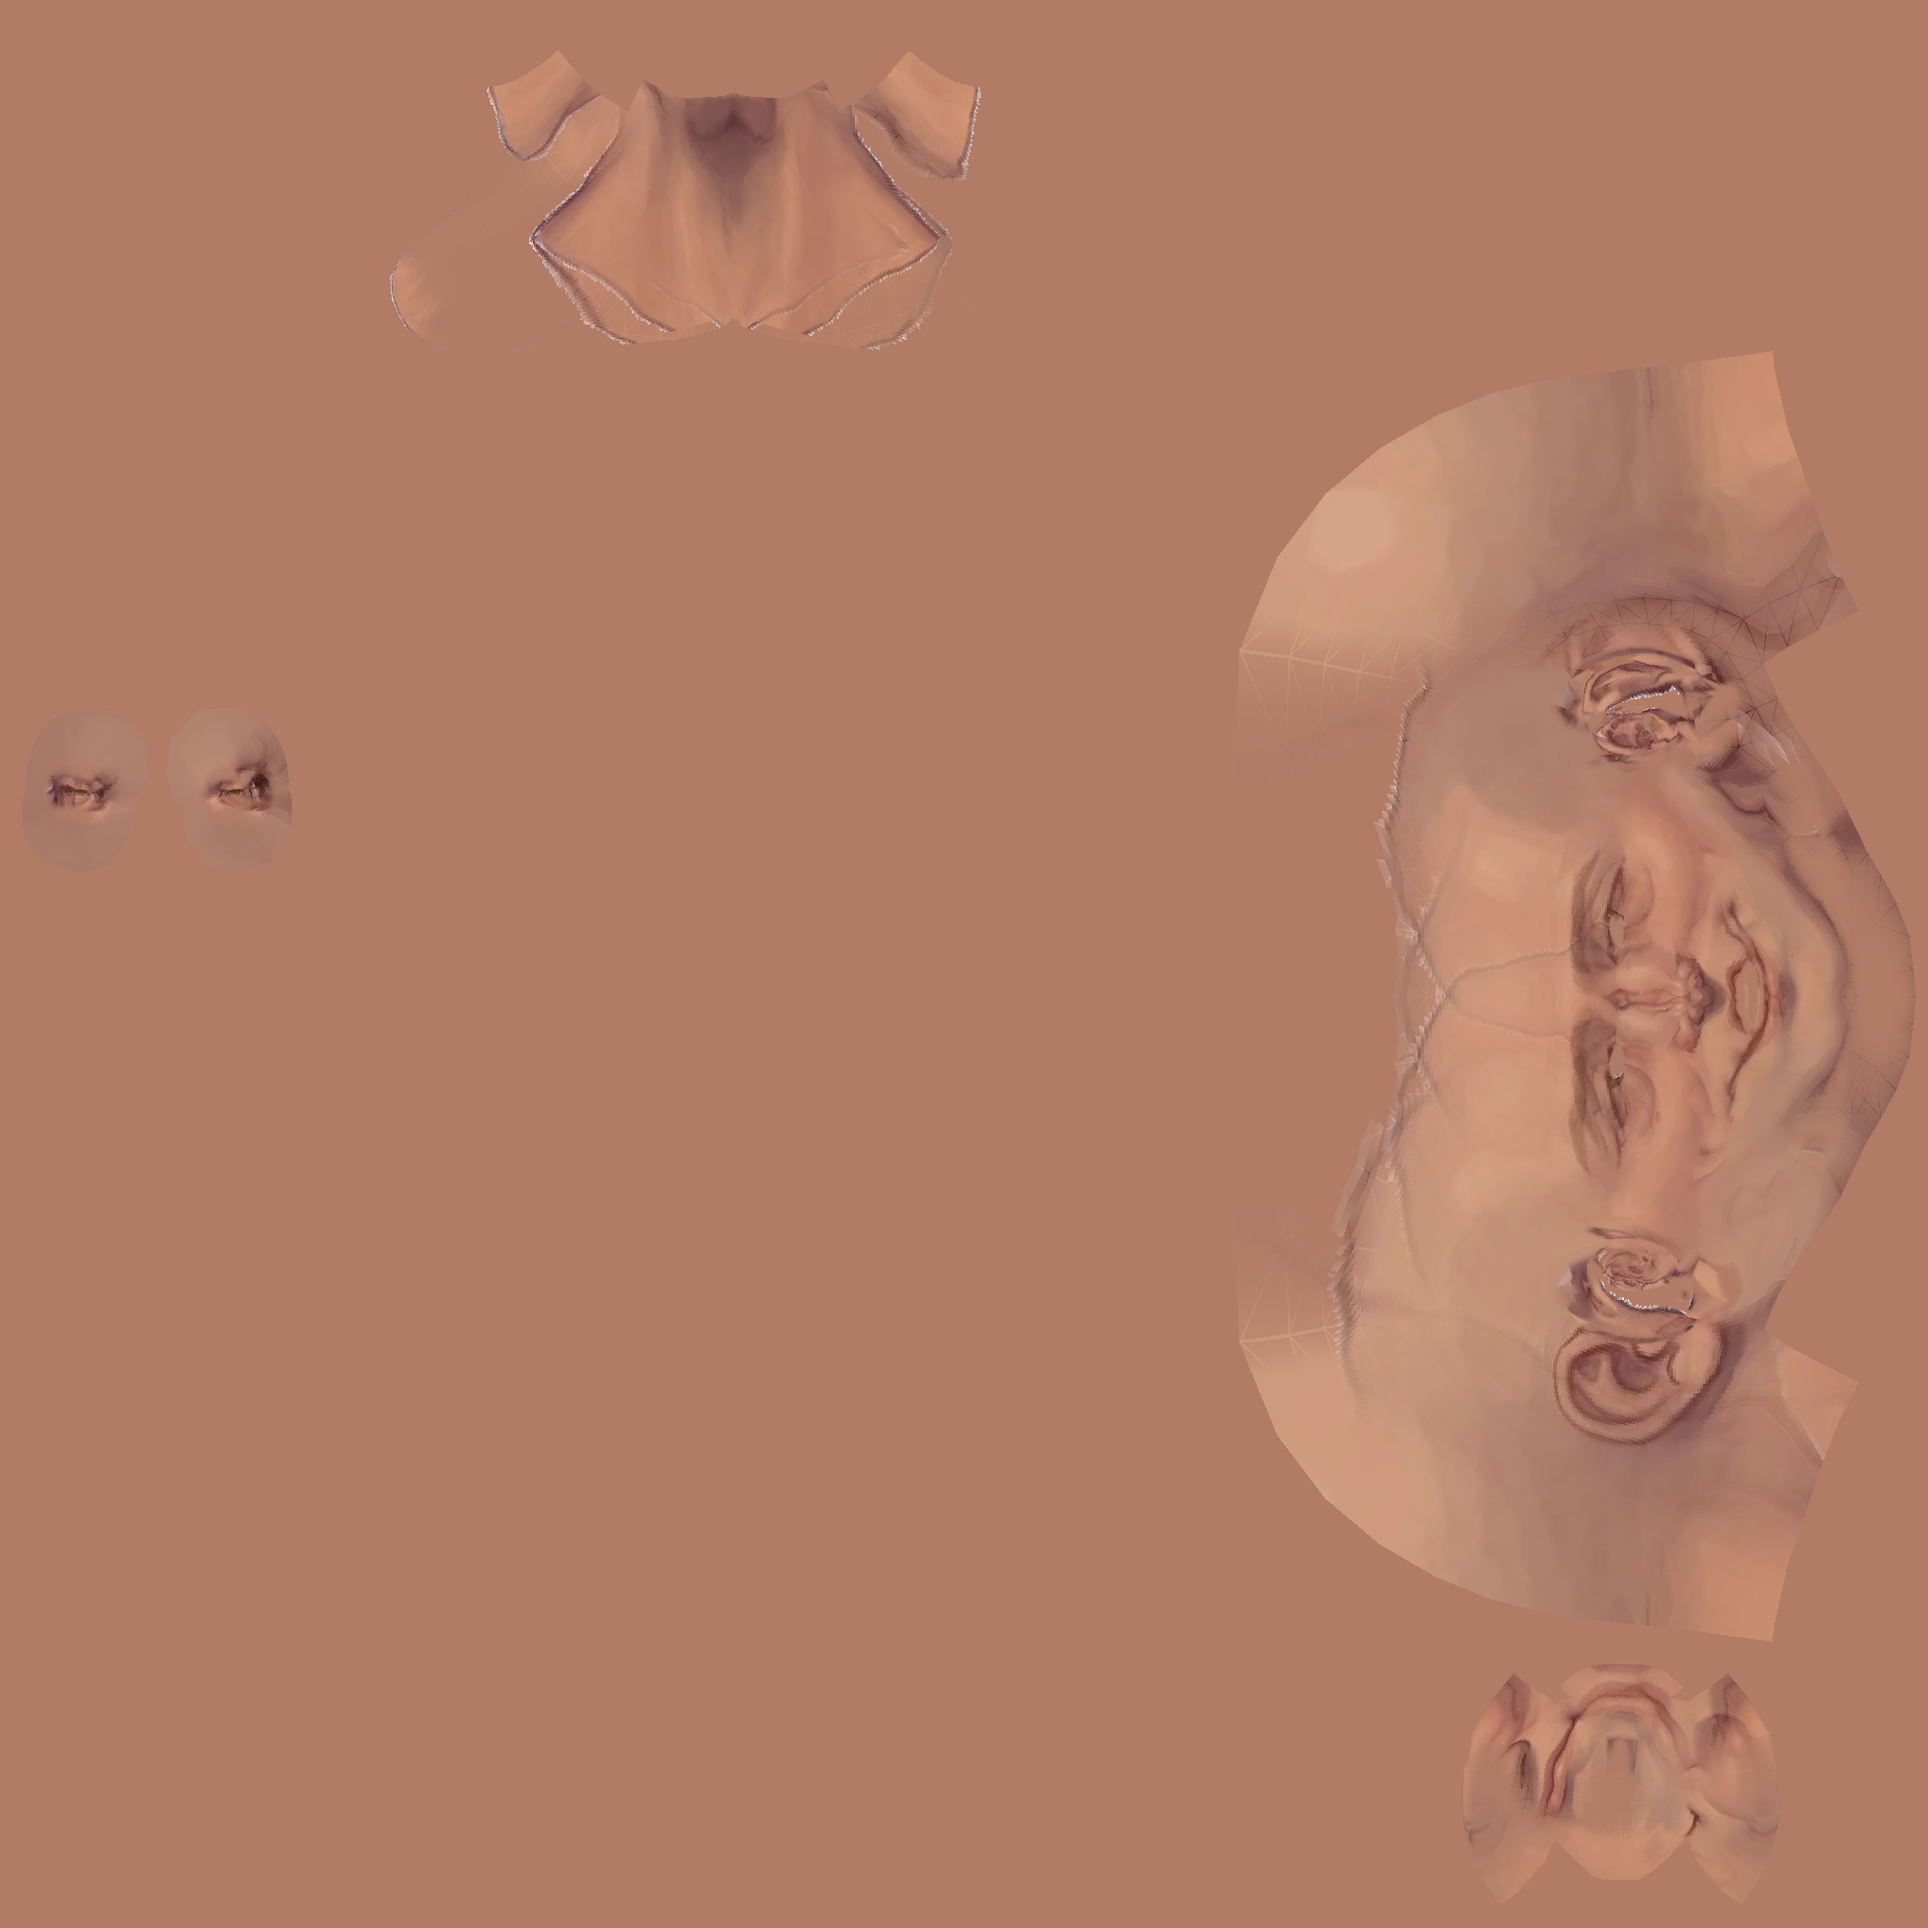
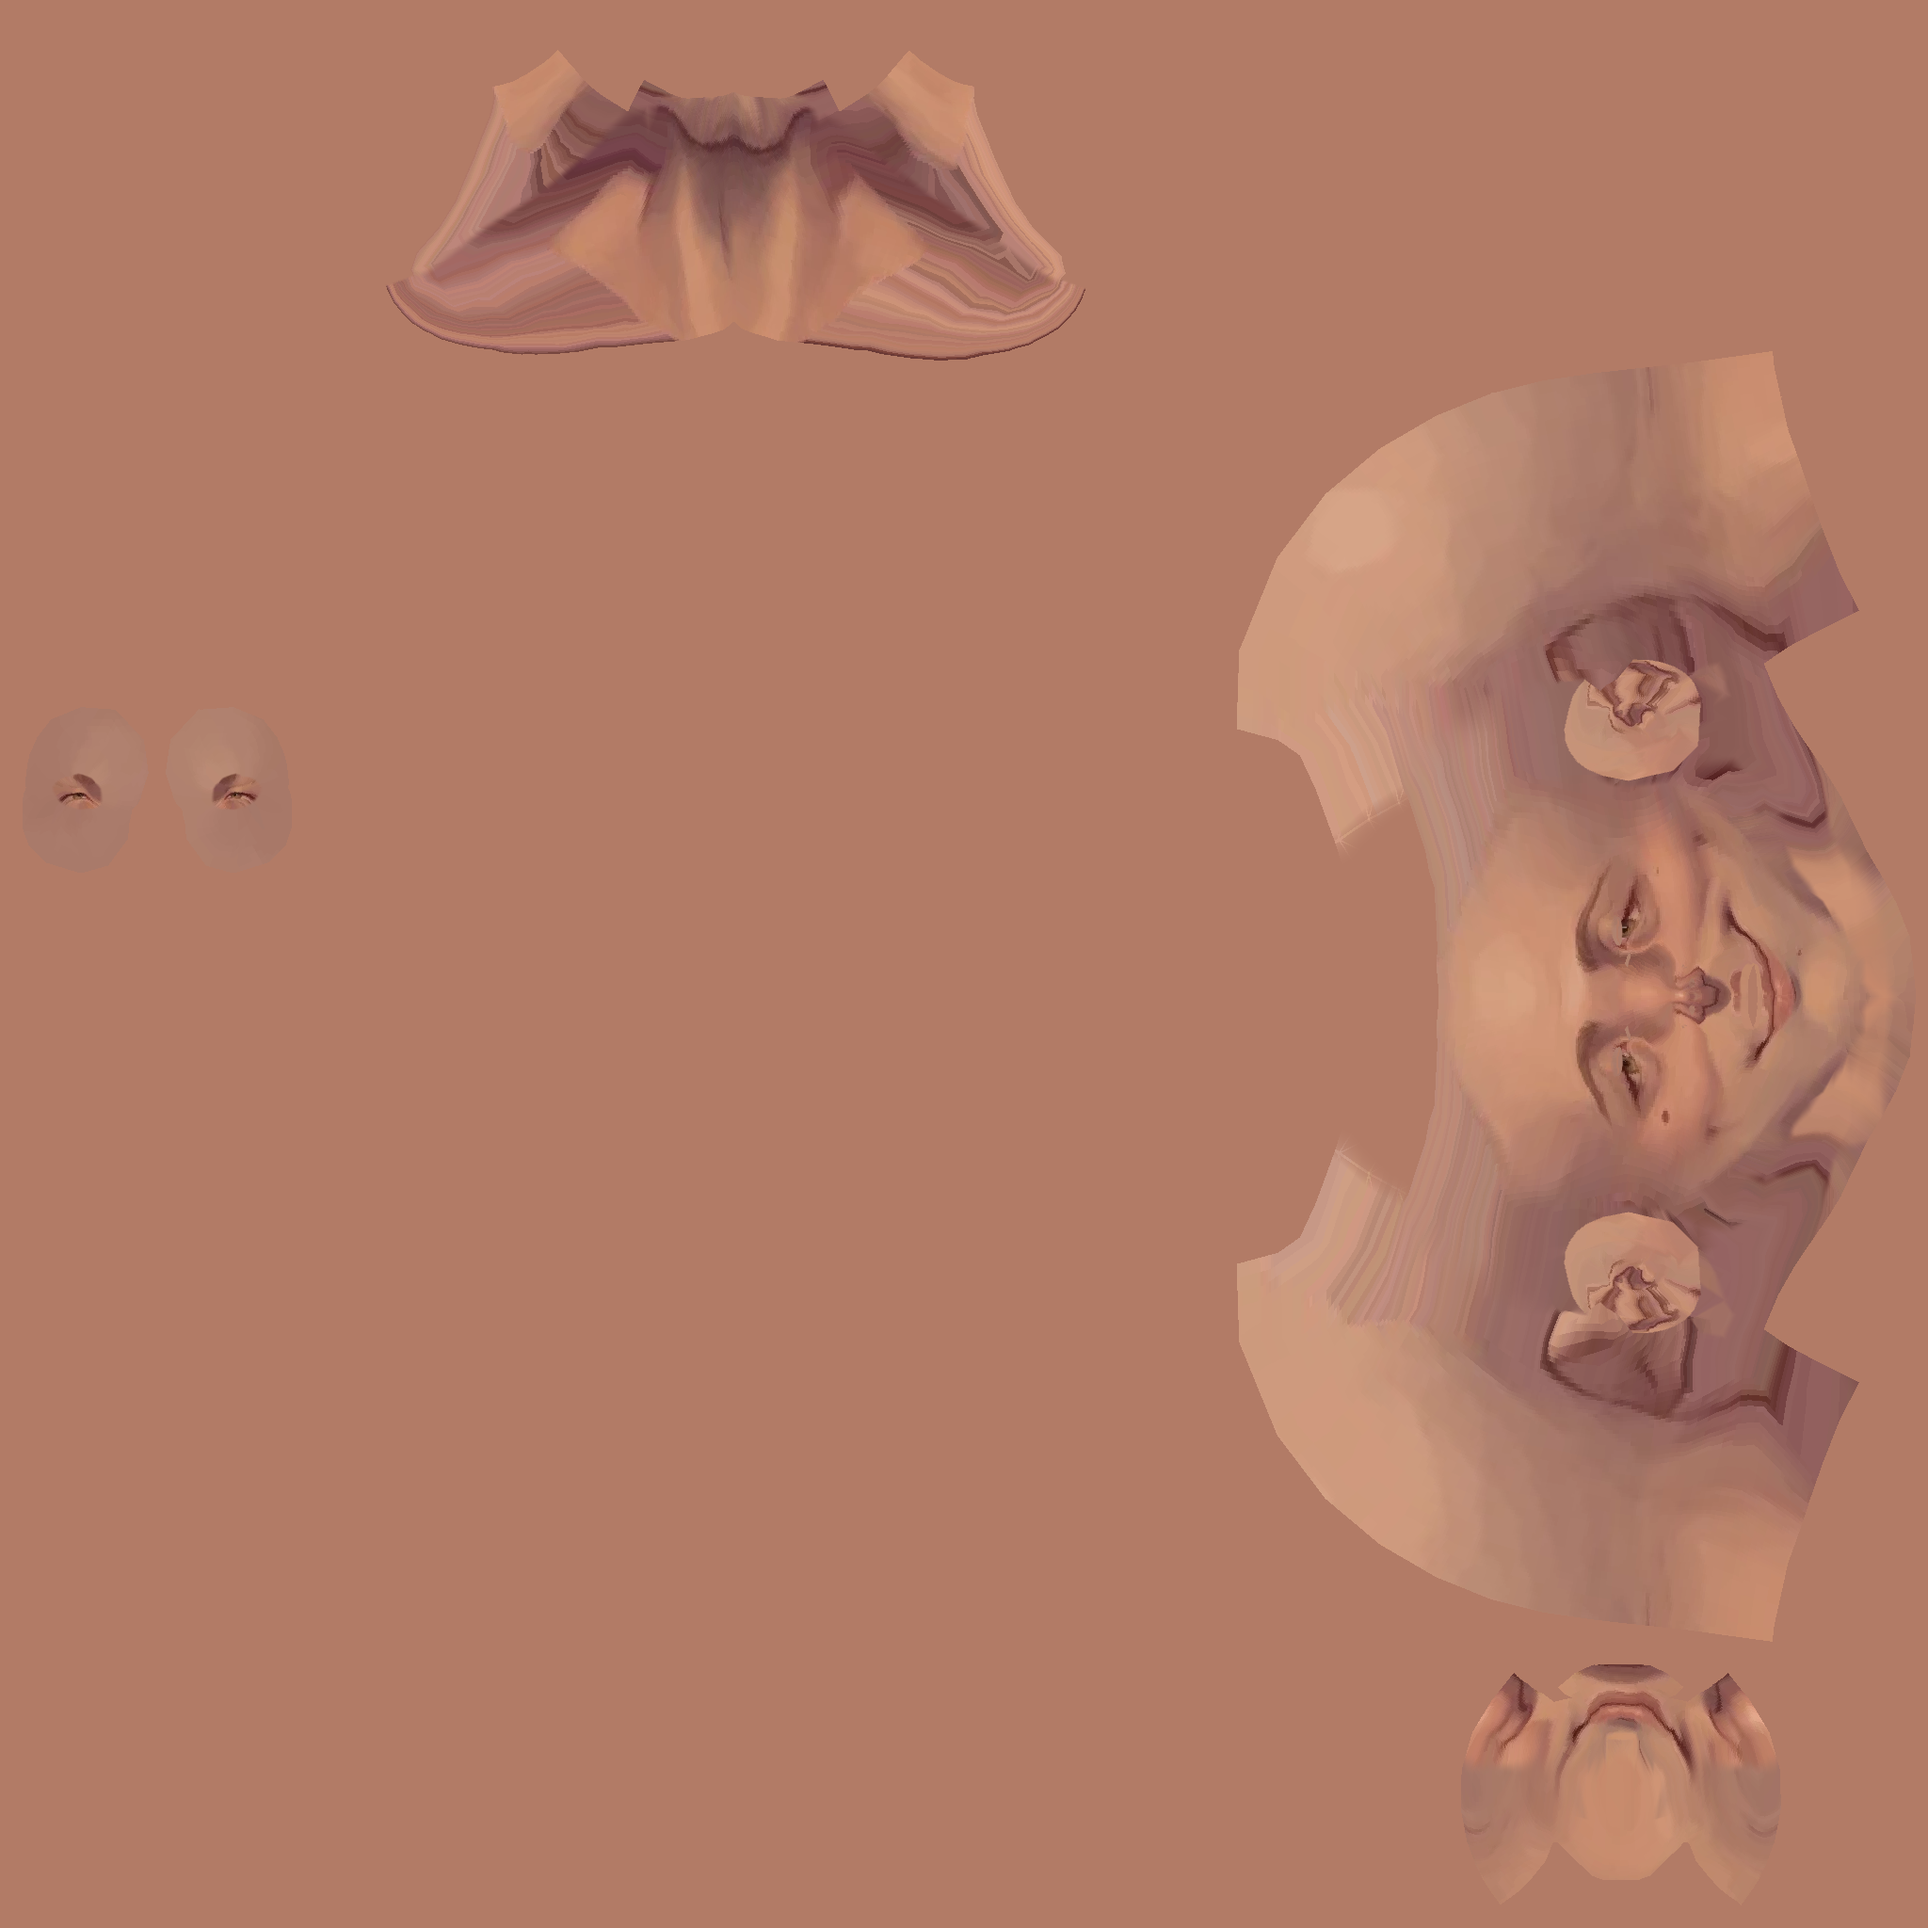
Gulp: figed: the head painted from the front and back views only, ears from the side view
Claude-Session: https://claude.ai/code/session_018hhQTWAB4pnnkWVR2X6n6A

diff --git a/tools/figed/paint_project.py b/tools/figed/paint_project.py
@@ -64,14 +64,26 @@ for v in sheet["views"]:
     right /= np.linalg.norm(right)
     up = np.cross(right, d)
     box = [int(round(c * k)) for c in v["box"]]
-    mask = figed_fit.cut_out(art, box, 0.07)
+    mask = figed_fit.shrink(figed_fit.cut_out(art, box, 0.07), 4)     # in from the drawn outline: no dark lines
     px = (v["chin"] - v["crown"]) * k / high                 # sheet pixels a metre
     if "nose" in v:
         anchor, at = nose, (v["nose"][0] * k, v["nose"][1] * k)
     else:
         anchor, at = crown, (v["centre"] * k, v["crown"] * k)
-    views.append((d, right, up, box, mask, px, anchor, at))
-skin = np.median(art[views[0][4].nonzero()[0] + views[0][3][1], views[0][4].nonzero()[1] + views[0][3][0]], axis=0)
+    # each row's figure: where it starts and ends, so skin just outside a view's outline (the side of the head, seen
+    # edge on from front and back) takes the colour of the outline's edge and is not left bare
+    rows = mask.any(axis=1)
+    lo = np.where(rows, mask.argmax(axis=1), 0)
+    hi = np.where(rows, mask.shape[1] - 1 - mask[:, ::-1].argmax(axis=1), -1)
+    views.append((d, right, up, box, (mask, rows, lo, hi), px, anchor, at, v["view"]))
+skin = np.median(art[views[0][4][0].nonzero()[0] + views[0][3][1], views[0][4][0].nonzero()[1] + views[0][3][0]], axis=0)
+# The user, 2026-11-20: "just project the fotnad back views, and the ears shouold come from the side view". The
+# three-quarter views are not used: where two views disagree the paint doubled (mouth, ears).
+by_name = {v[8]: v for v in views}
+FRONT, BACK, SIDE = by_name["face"], by_name["face_back"], by_name["face_side_r"]
+ear_of = np.zeros(len(P), dtype=int)                          # 1 = an ear on his left (+x), 2 = on his right
+for side, (ear, _root, flap) in fig._ear_masks().items():
+    ear_of[ear] = 1 if side == "l" else 2
 print("skin colour", skin.round(3), "views", len(views))
 
 # texels of the head's faces: where each is on the model, and which way it faces
@@ -111,15 +123,23 @@ for group, vi, ti in base.faces:
         nrm = w3.dot(N[tri])
         nrm /= np.maximum(np.linalg.norm(nrm, axis=1, keepdims=True), 1e-9)
         fade = np.clip((pos[:, 2] - low) / 0.05, 0, 1)        # the paint fades out down the neck
-        for d, right, up, box, mask, px, anchor, at in views:
-            facing = np.clip(-(nrm.dot(d)), 0, 1) ** 3
+        which = ear_of[tri]
+        if which.min() > 0:                                   # an ear: from the side view (his left ear mirrored)
+            if which[0] == 1:
+                pos = pos * np.array([-1.0, 1, 1])
+            use = [(SIDE, np.ones(len(pos)))]
+        else:                                                 # the head: front or back, a narrow blend at the side
+            t = np.clip((0.12 - nrm[:, 1]) / 0.24, 0, 1)
+            front = t * t * (3 - 2 * t)
+            use = [(FRONT, front), (BACK, 1 - front)]
+        for (d, right, up, box, (mask, rows, lo, hi), px, anchor, at, _name), share in use:
             sx = at[0] + (pos - anchor).dot(right) * px
             sy = at[1] - (pos - anchor).dot(up) * px
             ix, iy = np.round(sx).astype(int), np.round(sy).astype(int)
-            ok = (ix >= box[0]) & (ix < box[2]) & (iy >= box[1]) & (iy < box[3])
-            on = np.zeros(len(ix), dtype=bool)
-            on[ok] = mask[iy[ok] - box[1], ix[ok] - box[0]]
-            wgt = facing * on * fade
+            ry = np.clip(iy - box[1], 0, mask.shape[0] - 1)
+            on = rows[ry] & (iy >= box[1]) & (iy < box[3])
+            ix = np.clip(ix - box[0], lo[ry], np.maximum(hi[ry], lo[ry])) + box[0]     # pulled in to the figure
+            wgt = share * on * fade
             col = art[np.clip(iy, 0, art.shape[0] - 1), np.clip(ix, 0, art.shape[1] - 1)]
             tex[ys, xs] += col * wgt[:, None]
             wsum[ys, xs] += wgt

diff --git a/tools/figed/README.md b/tools/figed/README.md
@@ -554,3 +554,13 @@ up; a ready-made skin tinted; hand painting): "do the texture projection as a fi
   `nose-nostrils-angle-up` 0.2. `nose-trans-up` at 1.0 with `nose-base-up` -0.9 hung the nose over the mouth.
   Nose tip level 0.63 now (the sheet 0.57 by Claude's earlier reading: the user's eye says lower is right, and the
   user's eye rules). The paint (`brother_skin.png`) was projected before this and should be projected again.
+- Second projection. The user: "just project the fotnad back views, and the ears shouold come from the side view".
+  `paint_project.py` now uses only `face` and `face_back` for the head (which one by whether the skin faces forward
+  or back, a narrow blend where it faces sideways) and `face_side_r` for the ears (his left ear by mirror); the
+  three-quarter views are not used. Each view's cut-out is shrunk 4 px (no outline lines), and skin outside a view's
+  outline on a row takes that row's edge colour (so the side of the head, edge on to both views, is not bare).
+  Result: front and back are clean and read as him; no doubled mouth, no outline lines. Wrong: the side of the head
+  and the shoulders are STREAKED (one edge pixel dragged across: the side has no view of its own by the user's
+  rule); a pale patch round each ear (the smoothed-over head under the ear shares the ear's texels, and the ear's
+  paint spills past its outline); eyeballs still blank; the drawing's light still in the paint.
+  Made before the user's eye and nose changes settle: project again when the face is agreed.
